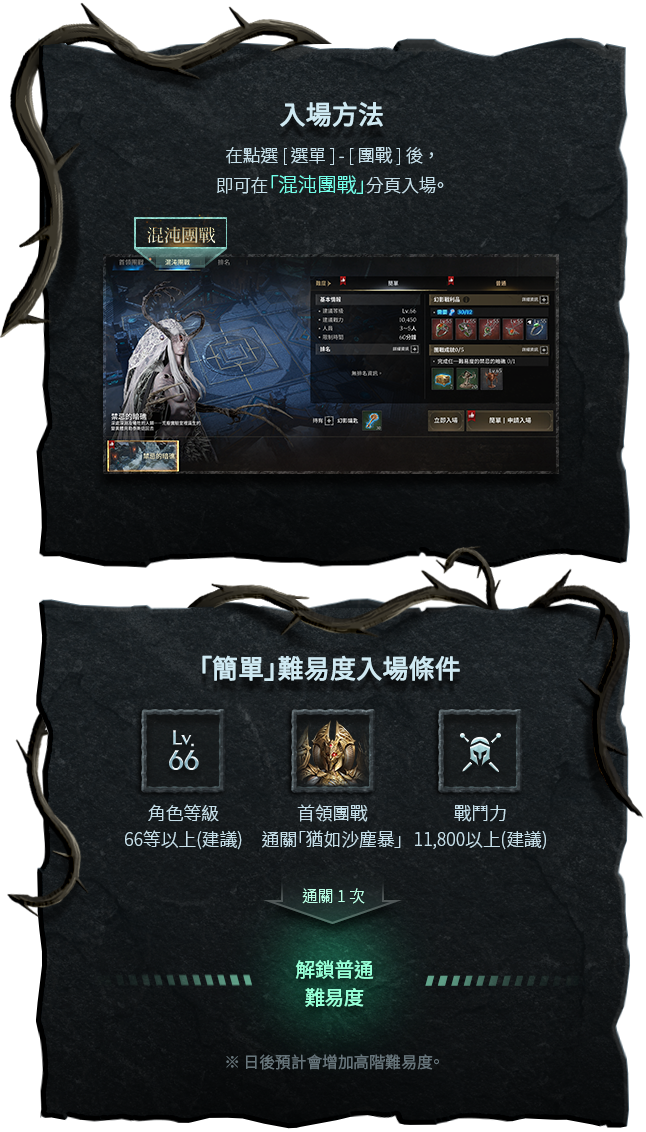
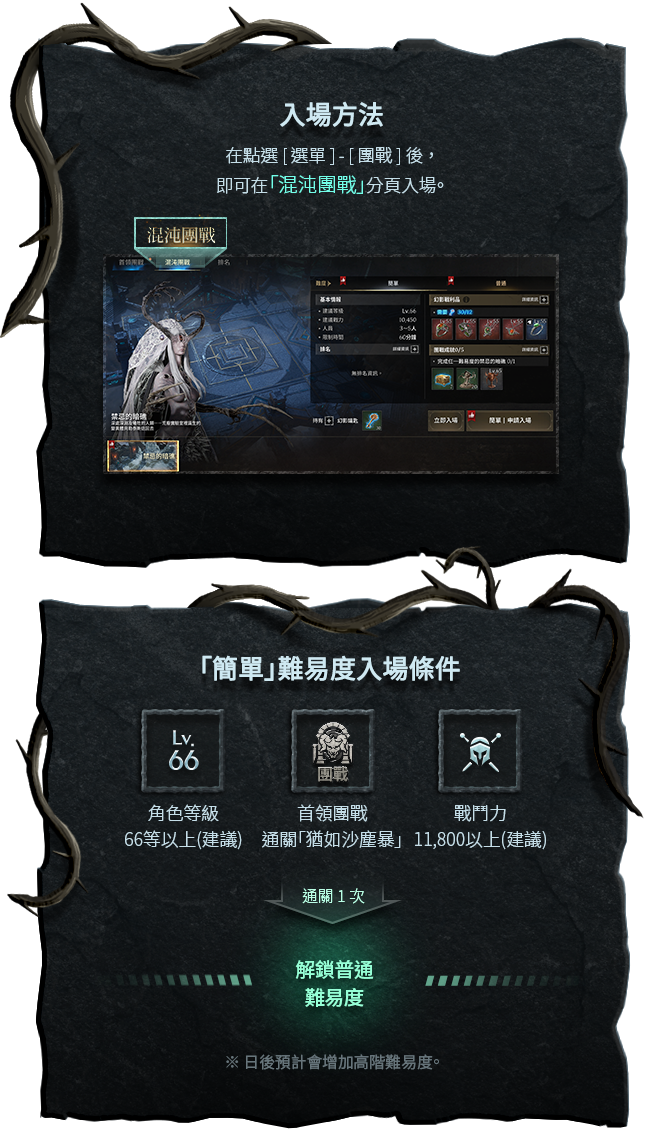
需求調整

diff --git a/css/mb_page.css b/css/mb_page.css
@@ -156,7 +156,7 @@
         left: 50%;
         margin-left: -8px;
         position: absolute;
-        top: 116px;
+        top: 80px;
         transform: translate(-50%);
         width: 543px;
     }
@@ -713,6 +713,15 @@
         width: 90px;
     }
 
+    .page--r-raid-forbiddenrock .mobile-content .section--bertes .area__content .area__content__wrap ._title .topTitle {
+        background-image: url(../img/mo/p4-top-title.png);
+        background-position: 50%;
+        background-repeat: no-repeat;
+        background-size: contain;
+        width: 200px;
+        height: 63px;
+    }
+
     .page--r-raid-forbiddenrock .mobile-content .section--bertes .area__content .area__content__wrap ._title .desc {
         width: 500px;
         font-size: 16px;
@@ -811,6 +820,15 @@
         font-weight: 400;
     }
 
+    .page--r-raid-forbiddenrock .mobile-content .section--reef .area__content .area__content__wrap ._header ._title .topTitle {
+        background-image: url(../img/mo/p3-top-title.png);
+        background-position: 50%;
+        background-repeat: no-repeat;
+        background-size: contain;
+        width: 200px;
+        height: 63px;
+    }
+
     .page--r-raid-forbiddenrock .mobile-content .section--reef .area__content .area__content__wrap ._header ._title .subTitle {
         font-size: 16px;
         color: #95a4aa;
@@ -889,6 +907,15 @@
         margin-top: 3.0555555556vw;
     }
 
+    .page--r-raid-forbiddenrock .mobile-content .section--reef .area__content .area__content__wrap ._header ._title .topTitle {
+        width: 100px;
+        height: 31.5px;
+    }
+
+    .page--r-raid-forbiddenrock .mobile-content .section--reef .area__content .area__content__wrap ._header ._title .subTitle {
+        display: none;
+    }
+
     .page--r-raid-forbiddenrock .mobile-content .section--reef .area__content .area__content__wrap ._content ._display-item.type--1 ._area {
         height: 73.3333333333vw;
         margin-left: -1.1111111111vw;
@@ -916,6 +943,11 @@
         height: 750px;
     }
 
+    .page--r-raid-forbiddenrock .mobile-content .section--bertes .area__content .area__content__wrap ._title .topTitle {
+        width: 100px;
+        height: 31.5px;
+    }
+
     .page--r-raid-forbiddenrock .mobile-content .section--bertes .area__content .area__content__wrap ._title sup {
         width: 242px;
         height: 40px;
@@ -929,15 +961,14 @@
 
     .page--r-raid-forbiddenrock .mobile-content .section--bertes .area__content .area__content__wrap ._spec {
         column-gap: 50.088542vw;
-        margin-bottom: -10px;
     }
 
     .page--r-raid-forbiddenrock .mobile-content .section--bertes .area__content .area__content__wrap ._title .desc {
-        width: 100vw;
+        display: none;
     }
 
     .page--r-raid-forbiddenrock .mobile-content .section--bertes .area__content .area__content__wrap ._spec .group .icon {
-        margin-bottom: 15px;
+        margin-bottom: 30px;
     }
 
     .page--r-raid-forbiddenrock .mobile-content .section--bertes .area__content .area__content__wrap ._spec .group .icon.icon1 {

diff --git a/index.html b/index.html
@@ -305,13 +305,13 @@
               <div class="_wrap">
                 <ol>
                   <li class="depth_1">
-                    <button class="page_p1">INTRO</button>
+                    <button class="page_p1">禁忌的暗礁</button>
                   </li>
                   <li class="depth_1">
                     <button class="page_p2">混沌團戰</button>
                   </li>
                   <li class="depth_1">
-                    <button class="page_p3">禁忌的暗礁</button>
+                    <button class="page_p3">全新地區</button>
                   </li>
                   <li class="depth_2">
                     <button class="page_p3">地區說明&nbsp;&nbsp;-</button>
@@ -323,7 +323,7 @@
                     <button class="page_p4">禁忌的貝勒泰斯</button>
                   </li>
                   <li class="depth_1">
-                    <button class="page_p5">劇情：氾濫的深淵</button>
+                    <button class="page_p5">氾濫的深淵</button>
                   </li>
                 </ol>
               </div>
@@ -499,6 +499,7 @@
                       <div class="area__content__wrap">
                         <div class="_header">
                           <div class="_title">
+                            <div class="topTitle"></div>
                             <sup></sup>
                             <div class="subTitle">
                               妖精為獲得深淵力量，在克隆北海孤島展開實驗。
@@ -669,6 +670,7 @@
                     <div class="area__visual"></div>
                     <div class="area__content">
                       <div class="area__content__wrap">
+                        <div class="topTitle"></div>
                         <div class="_spec">
                           <div class="group">
                             <span class="icon icon1"></span
@@ -839,6 +841,7 @@
                 <div class="area__content__wrap">
                   <div class="_header">
                     <div class="_title">
+                      <div class="topTitle"></div>
                       <sup></sup>
                       <div class="subTitle">
                         妖精為獲得深淵力量，在克隆北海孤島展開實驗。
@@ -954,6 +957,7 @@
                     </div>
                   </div>
                   <div class="_title">
+                    <div class="topTitle"></div>
                     <sup></sup>
                     <div class="desc">
                       妖精們為了研究而創造通往深淵的路，

diff --git a/css/pc_page.css b/css/pc_page.css
@@ -535,6 +535,15 @@ body.use-mouse .nav-side ._wrap ol li button:hover {
     -webkit-text-size-adjust: none;
 }
 
+.page--r-raid-forbiddenrock .pc-content .section--reef .area__content .area__content__wrap ._header ._title .topTitle {
+    background-image: url(../img/pc/p3-top-title.png);
+    background-position: 50%;
+    background-repeat: no-repeat;
+    background-size: contain;
+    height: 63px;
+    width: 200px;
+}
+
 .page--r-raid-forbiddenrock .pc-content .section--reef .area__content .area__content__wrap ._header ._title .subTitle {
     font-size: 18px;
     color: #95a4aa;
@@ -888,6 +897,15 @@ body.use-mouse .nav-side ._wrap ol li button:hover {
     background-position: 50%;
     background-repeat: no-repeat;
     background-size: cover;
+}
+
+.page--r-raid-forbiddenrock .pc-content .section--bertes .area__content .area__content__wrap .topTitle {
+    background-image: url(../img/pc/p4-top-title.png);
+    background-position: 50%;
+    background-repeat: no-repeat;
+    background-size: cover;
+    width: 200px;
+    height: 63px;
 }
 
 .page--r-raid-forbiddenrock .pc-content .section--bertes .area__content .area__content__wrap ._spec {
